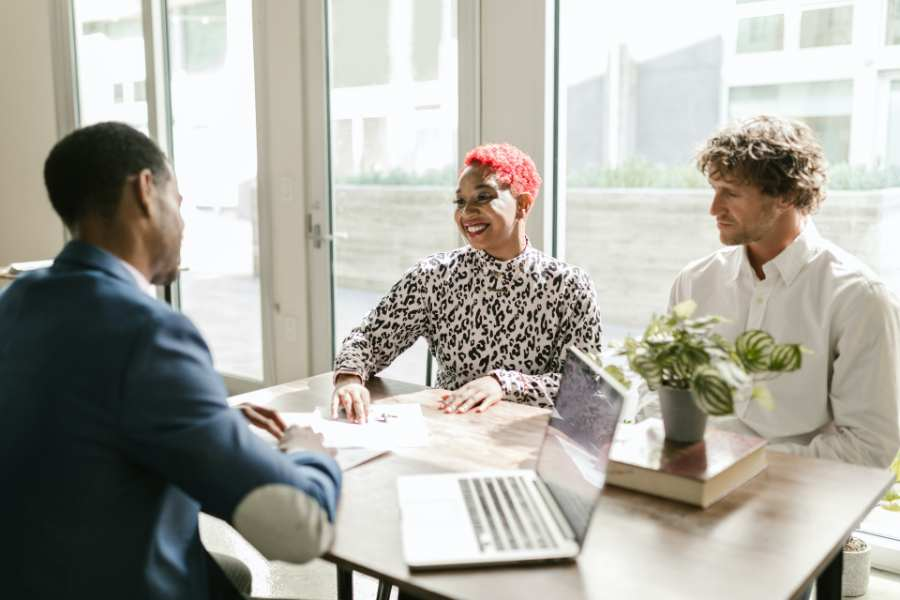
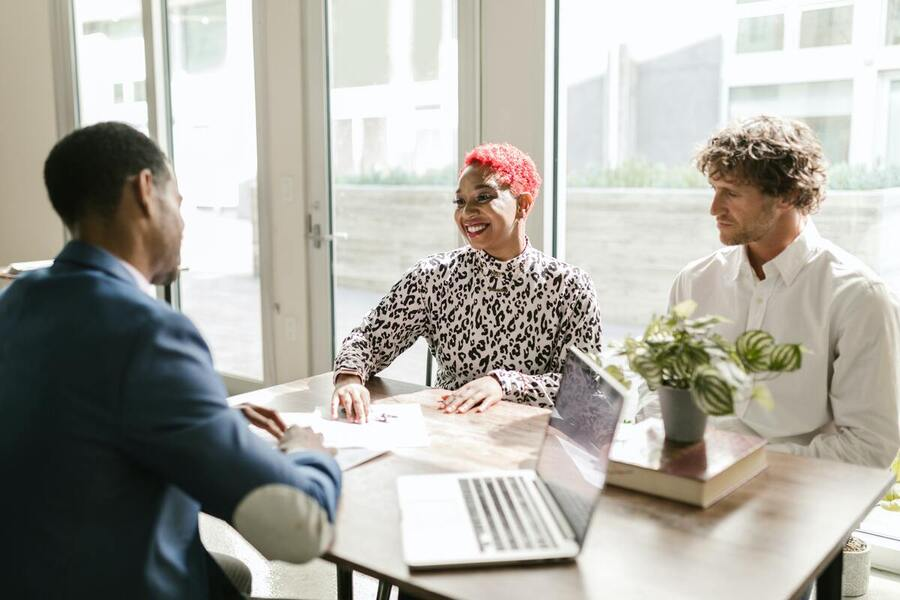
Image Optimization

Changed region(s): [[0.3733, 0.42, 0.6844, 0.66], [0.56, 0.27, 0.5911, 0.33], [0.9333, 0.9, 0.9644, 0.93]]

diff --git a/chamber/index.html b/chamber/index.html
@@ -17,7 +17,7 @@
 <body>
     <header class="header">
         <nav class="navbar" id="navi">
-            <a href="#" class="nav-logo"><img id="logo" alt="Rexburg Chamber Logo Full Version" src="images/Rexburg-logos_transparent.png"></a>
+            <a href="#" class="nav-logo"><img id="logo" alt="Rexburg Chamber Logo Full Version" src="images/Rexburg-logos_transparent.webp"></a>
             <div class ="media">
                 <a href="https://www.linkedin.com/in/jesusdelbarrios/" target="_blank"><img onload="displayfooter()" src="http://cdn.onlinewebfonts.com/svg/img_24873.png" alt="Linkedin Logo"></a>
                 <a href="https://github.com/JDSanchz" target="_blank"><img src="https://cdn-icons-png.flaticon.com/512/25/25231.png" alt="Github Logo"></a>
@@ -50,9 +50,12 @@
   </div>
 <main>
 <div id="hero">
-    <img src="images/wdd230-org900.jpg"
-    
-    />
+    <img src="images/wdd230-org400.jpg" 
+    srcset="images/wdd230-org400.jpg 400w, 
+            images/wdd230-org900.jpg 900w, 
+            images/wdd230-org1200.jpg 1200w" 
+            sizes="(max-width: 900px) 900px, 1200px"
+    alt="People from our chamber">
     <p id="wel">Welcome to Rexburg</p><div id="joinus"><p>Join Us!</p></div></div>
 <div id="event"><h4>Upcoming Events</h4>
     <img src="./images/int.jpg" alt="People in an interview"/>

diff --git a/chamber/styles/large.css b/chamber/styles/large.css
@@ -201,15 +201,6 @@ main div{
 #spot #class3{
     margin: 8px 8px 8px 8px;
 }
-#hero {
-    grid-column: 2/4;
-    grid-row: 1/3;
-    background-color: #4c00ff;
-    text-align: center;
-    font-family: Arial, sans-serif;
-    color: white;
-    border-radius: 20px;
-}
 #event{
     grid-column: 1/2;
     grid-row: 1/2;
@@ -333,4 +324,49 @@ padding:6px 10px;
 #temperature {
     font-size: 18px;
     font-weight: bold;
+}
+
+#hero {
+    grid-column: 2/4;
+    grid-row: 1/3;
+    text-align: center;
+    font-family: Arial, sans-serif;
+    color: white;
+    border-radius: 20px;
+    position: relative;
+    overflow: hidden;
+}
+
+#hero #wel {
+    color: #ffffff;
+    font-size: 70px;
+    padding-top: 15px;
+    text-shadow: 4px 4px 10px rgb(50, 51, 54);
+    position: absolute;
+    top: 20%;
+    left: 50%;
+    transform: translate(-50%, -50%);
+}
+#joinus{
+    height: 60px;
+    width: 45%;
+    border-radius: 12px;
+    position: absolute;
+    top: 70%;
+    right: 26%;
+    background-color: #ff679c;
+}
+#joinus p{
+    font-size: 35px;
+    padding: 10px;
+}
+
+#hero img{
+    width: 100%;
+    height: 100%;
+    object-fit: cover;
+    position: relative;
+    left: 50%;
+    top: 50%;
+    transform: translate(-50%, -50%);
 }

diff --git a/chamber/styles/medium.css b/chamber/styles/medium.css
@@ -166,22 +166,23 @@
         left:65%;
         bottom: 20%;
     }
+
+#hero {
+        grid-column: 1/4;
+        grid-row: 1/2;
+        height: 400px;
+        position: relative;
+        overflow: hidden;
+    }
+
 #joinus{
     height: 60px;
     width: 33%;
     border-radius: 12px;
     position: absolute;
-    bottom: 4px;
-    right: 3%;
+    top: 80%;
+    right: 45px;
     background-color: #ff679c;
-}
-
-#hero {
-    grid-column: 1/4;
-    grid-row: 1/2;
-    height: 400px;
-    position: relative;
-    overflow: hidden;
 }
 #hero #wel {
     color: #ffffff;
